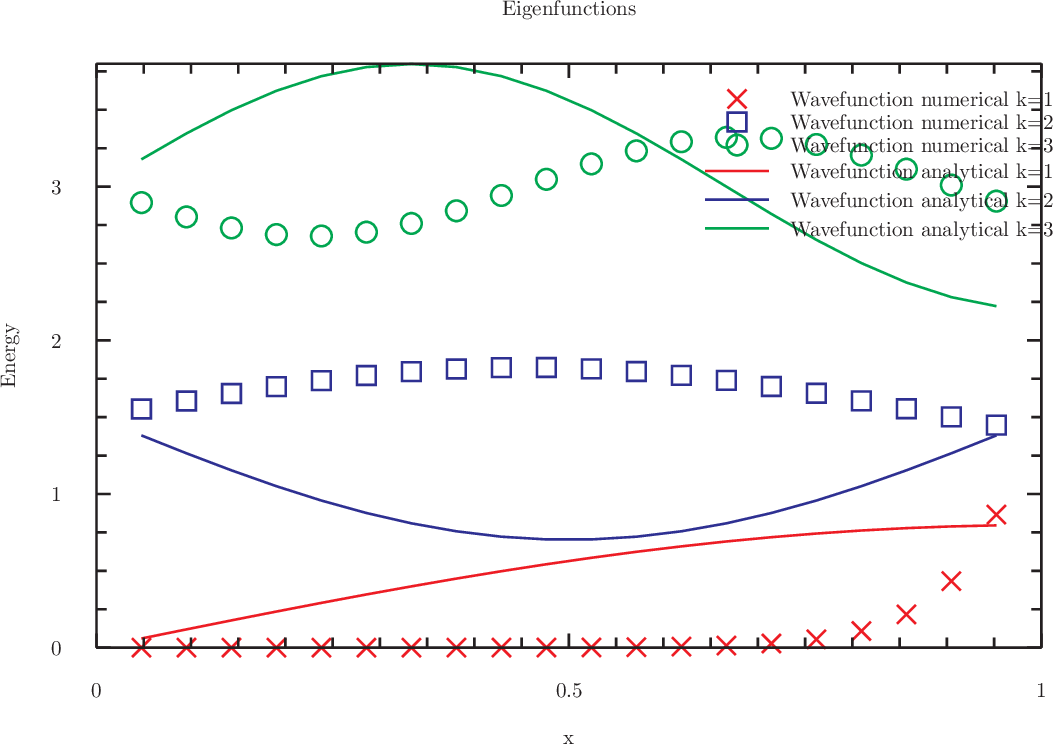
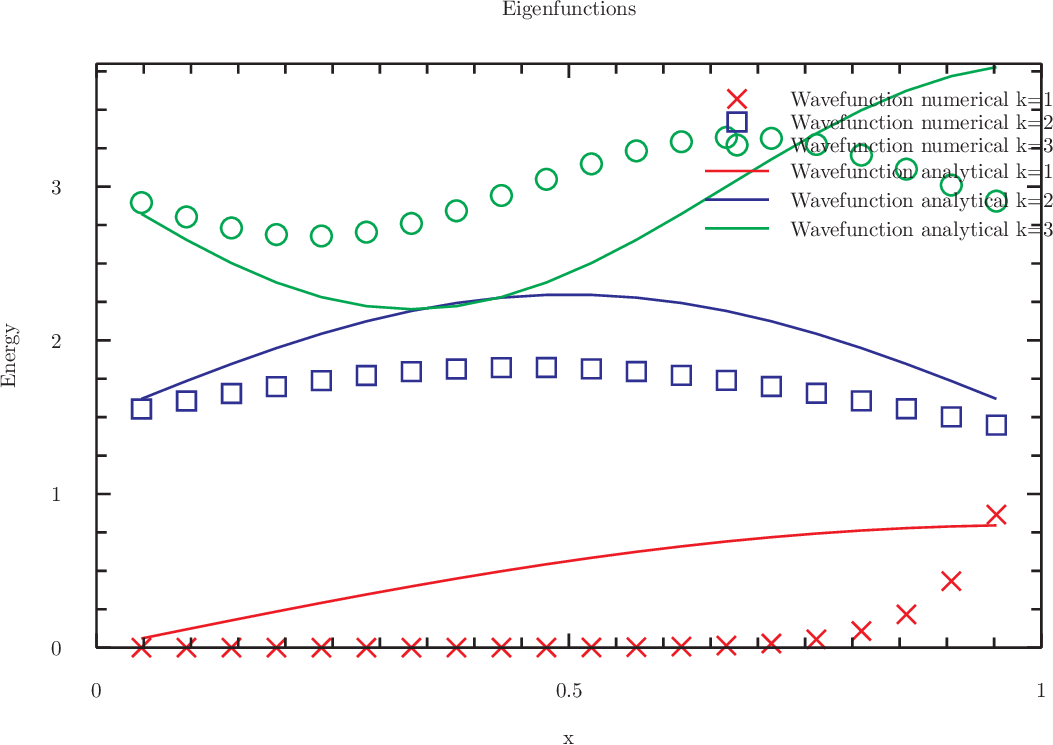
Initial commit

diff --git a/homework/MatrixDiagonalization/main.c b/homework/MatrixDiagonalization/main.c
@@ -274,7 +274,7 @@ printf("\n\n");
 printf("#index1: numerical vs analytical\n");
  	for(int i=0;i<N;i++){
 	double k=(i+1.0)/(N+1);
-	printf("%6g %6g %6g %6g %6g %6g %6g\n",k, gsl_matrix_get(V_h,i,0), gsl_matrix_get(V_h,i,1)+1.5, gsl_matrix_get(V_h,i,2)+3, sqrt(2/M_PI)*sin(M_PI*k/2),-sqrt(2/M_PI)*sin(M_PI*2*k/2)+1.5,sqrt(2/M_PI)*sin(M_PI*3*k/2)+3);
+	printf("%6g %6g %6g %6g %6g %6g %6g\n",k, gsl_matrix_get(V_h,i,0), gsl_matrix_get(V_h,i,1)+1.5, gsl_matrix_get(V_h,i,2)+3, sqrt(2/M_PI)*sin(M_PI*k/2),sqrt(2/M_PI)*sin(M_PI*2*k/2)+1.5,-sqrt(2/M_PI)*sin(M_PI*3*k/2)+3);
 	}
 
 
